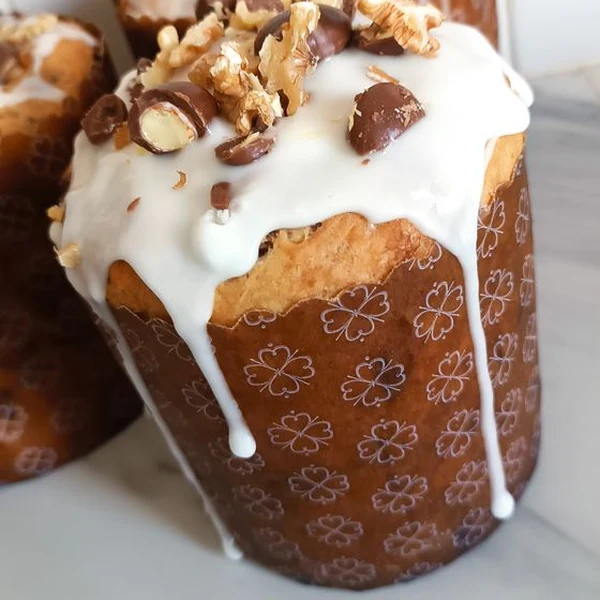
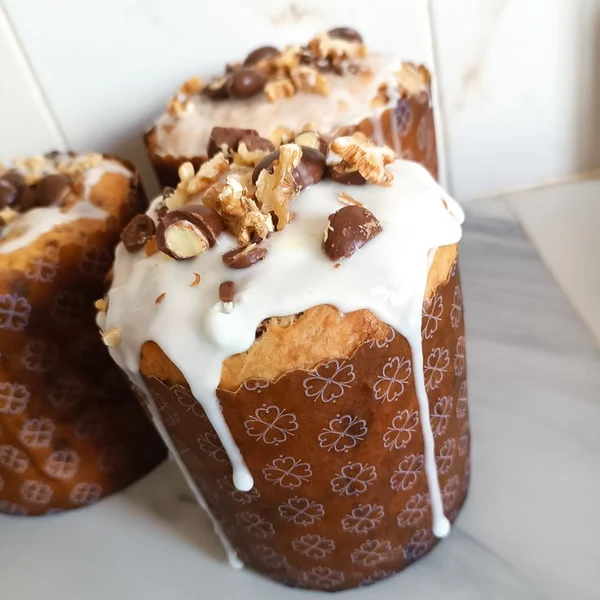
Pan dulce: foto completa de los tres panettones en frutos secos y chocolate y en frutos secos
Claude-Session: https://claude.ai/code/session_01C6bfWHa45MuNYMQfMCjhxp

diff --git a/index.html b/index.html
@@ -926,7 +926,7 @@ const coffees=[{"id":"c-brasil-500-grano","category":"cafe","name":"Café premiu
 const bizcochuelos=[{"id": "bc-vainilla", "category": "bizcochuelos", "name": "Bizcochuelo de vainilla", "price": 10000, "desc": "Sin lactosa.", "image": "assets/bizcochuelo-vainilla-dos.webp"}, {"id": "bc-marmolado", "category": "bizcochuelos", "name": "Bizcochuelo marmolado", "price": 12000, "desc": "Sin lactosa.", "image": "assets/bizcochuelo-marmolado-dos.webp"}, {"id": "bc-chocolate", "category": "bizcochuelos", "name": "Bizcochuelo de chocolate", "price": 15000, "desc": "Sin lactosa.", "image": "assets/bizcochuelo-chocolate-dos.webp"}];
 const chipas=[{"id": "ch-clasica-200", "category": "chipa", "name": "Chipa · 200 g", "price": 6000, "desc": "Presentación de 200 gramos.", "image": "assets/chipa-cuadrada-v16-s.webp"}];
 const prepizzas=[{id:'pp-24',category:'pizza',badge:'Promo',name:'Prepizza · 24 cm',price:6000,tiers:{2:5000},desc:'Lista para que le pongas lo que quieras.',image:'assets/prepizza-foto.webp'},{id:'pz-jyq',category:'pizza',badge:'Promo',name:'Pizza de jamón y queso',price:12000,tiers:{2:10000},desc:'Jamón y muzzarella.',image:'assets/pizza-jyq-foto.webp'}];
-const pandulce=[{id:'pd-chips',category:'pandulce',name:'Pan dulce con chips de chocolate',soon:true,desc:'Chips de chocolate adentro y por arriba.',image:'assets/pandulce-chocolate-tres.webp'},{id:'pd-chocolate',category:'pandulce',name:'Pan dulce de chocolate',soon:true,desc:'Masa de cacao amargo, chips de chocolate adentro y bañado en chocolate por arriba.',image:'assets/pandulce-pendiente.svg'},{id:'pd-frutos-secos',category:'pandulce',name:'Pan dulce de frutos secos',soon:true,desc:'Harina de almendras, relleno de frutos secos y glaseado con frutos secos por arriba.',image:'assets/pandulce-pendiente.svg'},{id:'pd-frutos-chocolate',category:'pandulce',name:'Pan dulce de frutos secos y chocolate',soon:true,desc:'Frutos secos y chocolate.',image:'assets/pandulce-frutos-chocolate.webp'}];
+const pandulce=[{id:'pd-chips',category:'pandulce',name:'Pan dulce con chips de chocolate',soon:true,desc:'Chips de chocolate adentro y por arriba.',image:'assets/pandulce-chocolate-tres.webp'},{id:'pd-chocolate',category:'pandulce',name:'Pan dulce de chocolate',soon:true,desc:'Masa de cacao amargo, chips de chocolate adentro y bañado en chocolate por arriba.',image:'assets/pandulce-pendiente.svg'},{id:'pd-frutos-secos',category:'pandulce',name:'Pan dulce de frutos secos',soon:true,desc:'Harina de almendras, relleno de frutos secos y glaseado con frutos secos por arriba.',image:'assets/pandulce-frutos-chocolate.webp'},{id:'pd-frutos-chocolate',category:'pandulce',name:'Pan dulce de frutos secos y chocolate',soon:true,desc:'Frutos secos y chocolate.',image:'assets/pandulce-frutos-chocolate.webp'}];
 const navidad=[{id:'n-garrapinada-mani',category:'navidad',name:'Garrapiñada de maní',price:10000,desc:'Por kilo.',image:'assets/navidad-garrapinada-mani.webp'},{id:'n-garrapinada-nuez',category:'navidad',name:'Garrapiñada de nuez',price:40000,desc:'Por kilo.',image:'assets/navidad-garrapinada-nuez.webp'},{id:'n-mani-chocolate',category:'navidad',name:'Maní bañado en chocolate',price:20000,desc:'Por kilo.',image:'assets/navidad-mani-chocolate.webp'},{id:'n-rocklets',category:'navidad',name:'Rocklets',price:25000,desc:'Por kilo.',image:'assets/navidad-rocklets.webp'},{id:'n-marroc',category:'navidad',name:'Marroc en cubitos',price:35000,desc:'Por kilo.',image:'assets/navidad-marroc.webp'},{id:'n-garrapinada-almendras',category:'navidad',name:'Garrapiñada de almendras',price:35000,desc:'Por kilo.',image:'assets/navidad-garrapinada-almendras.webp'},{id:'n-pasas-chocolate',category:'navidad',name:'Pasas de uva bañadas en chocolate',price:40000,desc:'Por kilo.',image:'assets/navidad-pasas-chocolate.webp'},{id:'n-almendras-chocolate',category:'navidad',name:'Almendras bañadas en chocolate',price:45000,desc:'Por kilo.',image:'assets/navidad-almendras-chocolate.webp'},{id:'n-arandanos-chocolate',category:'navidad',name:'Arándanos bañados en chocolate',price:45000,desc:'Por kilo.',image:'assets/navidad-arandanos-chocolate.webp'},{id:'n-bocaditos-ddl',category:'navidad',name:'Bocaditos de chocolate rellenos con dulce de leche',price:50000,desc:'Por kilo.',image:'assets/navidad-bocaditos-ddl.webp'},{id:'n-avellanas-chocolate',category:'navidad',name:'Avellanas bañadas en chocolate',price:55000,desc:'Por kilo.',image:'assets/navidad-avellanas-chocolate.webp'},{id:'n-pistachos-chocolate',category:'navidad',name:'Pistachos bañados en chocolate semiamargo',price:120000,desc:'Por kilo.',image:'assets/navidad-pistachos.webp'}];
 const panes=[{id:'p-almendras',category:'pan',badge:'Nuevo',name:'Pan de almendras',price:15000,desc:'Con almendras enteras.',image:'assets/pan-almendras-dos.webp'},{id:'p-coco',category:'pan',badge:'Nuevo',name:'Pan de coco',price:16000,desc:'Con coco en escamas.',image:'assets/pan-coco-dos.webp'}];
 const supplements=[{"id": "s-ena-100whey-900-vainilla", "group": "ena-100whey-900", "category": "proteinas", "name": "Proteína ENA 100% Whey · 900 g · Vainilla", "price": 80000, "available": true, "desc": "100% Whey Protein · 900 g", "image": "assets/ena-100whey-vainilla-900-limpia.webp", "flavor": "Vainilla", "weight": "900 g", "brand": "ENA"}, {"id": "s-ena-whey-930-vainilla", "group": "ena-whey-930", "category": "proteinas", "name": "Proteína ENA Truemade · 930 g · Vainilla", "price": 95000, "available": true, "desc": "Whey Protein · 930 g", "image": "assets/supp-whey-1-limpia.webp", "flavor": "Vainilla", "weight": "930 g", "brand": "ENA"}, {"id": "s-ena-whey-930-chocolate", "group": "ena-whey-930", "category": "proteinas", "name": "Proteína ENA Truemade · 930 g · Chocolate", "price": 95000, "available": true, "desc": "Whey Protein · 930 g", "image": "assets/supp-whey-4-limpia.webp", "flavor": "Chocolate", "weight": "930 g", "brand": "ENA"}, {"id": "s-ena-whey-930-frutilla", "group": "ena-whey-930", "category": "proteinas", "name": "Proteína ENA Truemade · 930 g · Frutilla", "price": 95000, "available": true, "desc": "Whey Protein · 930 g", "image": "assets/supp-whey-7-limpia.webp", "flavor": "Frutilla", "weight": "930 g", "brand": "ENA"}, {"id": "s-ena-whey-930-cookies-cream", "group": "ena-whey-930", "category": "proteinas", "name": "Proteína ENA Truemade · 930 g · Cookies & Cream", "price": 95000, "available": true, "desc": "Whey Protein · 930 g", "image": "assets/supp-whey-9-limpia.webp", "flavor": "Cookies & Cream", "weight": "930 g", "brand": "ENA"}, {"id": "s-ena-whey-930-banana", "group": "ena-whey-930", "category": "proteinas", "name": "Proteína ENA Truemade · 930 g · Banana", "price": 95000, "available": true, "desc": "Whey Protein · 930 g", "image": "assets/supp-whey-11-limpia.webp", "flavor": "Banana", "weight": "930 g", "brand": "ENA"}, {"id": "s-ena-creatina-300-sin-sabor", "group": "ena-creatina-300", "category": "creatina", "name": "Creatina ENA · 300 g · Sin sabor", "price": 30000, "available": true, "desc": "Creatina monohidrato · 300 g", "image": "assets/supp-creatine-0-limpia.webp", "flavor": "Sin sabor", "weight": "300 g", "brand": "ENA"}, {"id": "s-ena-creatina-300-fruit-punch", "group": "ena-creatina-300", "category": "creatina", "name": "Creatina ENA · 300 g · Fruit Punch", "price": 30000, "available": true, "desc": "Creatina monohidrato · 300 g", "image": "assets/supp-creatine-1-limpia.webp", "flavor": "Fruit Punch", "weight": "300 g", "brand": "ENA"}, {"id": "s-ena-creatina-1000-sin-sabor", "group": "ena-creatina-1000", "category": "creatina", "name": "Creatina ENA · 1 kg · Sin sabor", "price": 80000, "available": true, "desc": "Creatina monohidrato · 1 kg", "image": "assets/supp-creatine-4-limpia.webp", "flavor": "Sin sabor", "weight": "1 kg", "brand": "ENA"}, {"id": "s-natier-creatina-300-sin-sabor", "group": "natier-creatina-300", "category": "creatina", "name": "Creatina Natier · 300 g · Sin sabor", "price": 30000, "available": true, "desc": "Creatina monohidratada micronizada · 300 g", "image": "assets/supp-natier-300-limpia.webp", "flavor": "Sin sabor", "weight": "300 g", "brand": "Natier"}, {"id": "s-ena-prewar-400-fruit-punch", "group": "ena-prewar-400", "category": "preentrenos", "name": "Preentreno ENA Pre War · 400 g · Fruit Punch", "price": 35000, "available": true, "desc": "Pre War · Preentreno · 400 g", "image": "assets/prewar-fruit-punch-limpia.webp", "flavor": "Fruit Punch", "weight": "400 g", "brand": "ENA"}, {"id": "s-ena-creatina-electrolitos-302-pink", "group": "ena-creatina-electrolitos-302", "category": "creatina", "name": "Creatina ENA + Electrolitos · 302 g · Pink Lemonade", "price": 30000, "available": true, "desc": "Creatina con electrolitos · 302 g", "image": "assets/creatina-electrolitos-pink-limpia.webp", "flavor": "Pink Lemonade", "weight": "302 g", "brand": "ENA"}];
